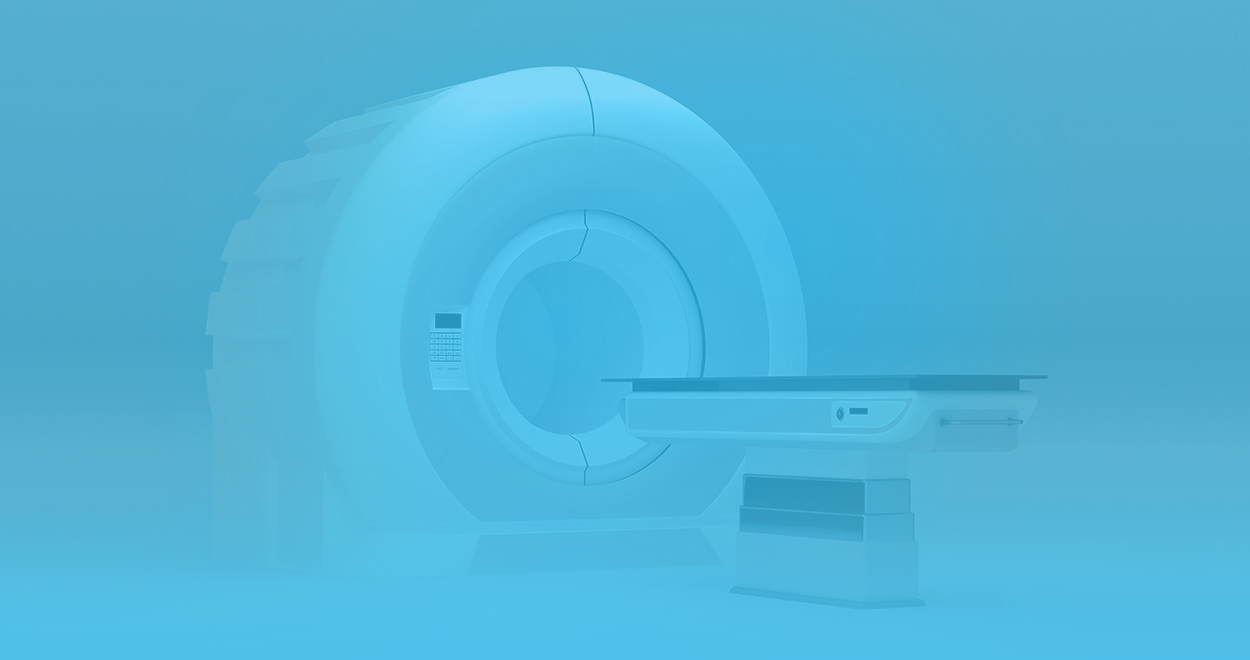
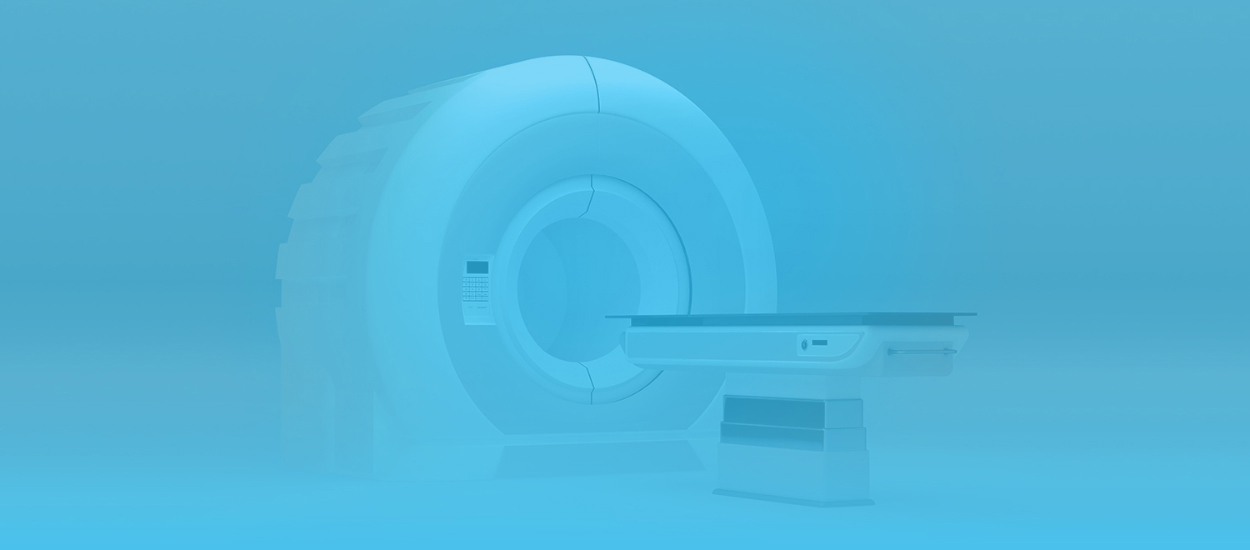
Changed layout on NGI

diff --git a/ngi.html b/ngi.html
@@ -38,11 +38,15 @@
   –––––––––––––––––––––––––––––––––––––––––––––––––– -->
 <div class="ppp">
   <div class="ppp-container ngipage">
-    <h2>NGI</h2>
-    <h4>Conception d'un logotype</h4>
-
-    <p>Conception du logotype du&nbsp;groupe&nbsp;<a href="http://www.ngigroup.fr/" target="_blank">NGI</a>, issu&nbsp;de la&nbsp;fusion de Numerix et&nbsp;Global&nbsp;Imaging.</br>
-      Travail au sein de l'agence&nbsp;Memory, chargée&nbsp;de&nbsp;créer l'<a href="http://agencememory.com/portfolio/ngi-02/" target="_blank">identité&nbsp;graphique</a>.</p>
+    <div class="scanner">
+      <h2>NGI</h2>
+      <h4>Conception d'un logotype</h4>
+      <p>Conception du logotype du&nbsp;groupe&nbsp;<a href="http://www.ngigroup.fr/" target="_blank">NGI</a>,
+         issu&nbsp;de la&nbsp;fusion de Numerix et&nbsp;Global&nbsp;Imaging.</br>
+        Travail au sein de l'agence&nbsp;Memory, chargée&nbsp;de&nbsp;créer
+        l'<a href="http://agencememory.com/portfolio/ngi-02/" target="_blank">identité&nbsp;graphique</a>.</p>
+    </div>
+    
     <div class="img-container" style="background-color:#4ac1ec;">
       <img src="images/ngi/ngi_logo_square.png" />
     </div>

diff --git a/css/style.css b/css/style.css
@@ -193,14 +193,22 @@ margin: 0 -40% 0 -60%;
 }
 
 .ngipage {
+  padding: 0;
+  color: rgb(240,240,240);
   background-color: #4ac1ec;
+}
+.ngipage .scanner {
+  min-height: 330px;
   background-image: url("../images/ngi/scanner.jpg");
-  background-size: contain;
+  background-size:cover;
   background-repeat: no-repeat;
   background-position: center top;
-  color: rgb(240,240,240);
 }
-
+.ngipage p {
+  margin: 20px auto 20px auto;
+  padding: 35px 70px;
+  max-width: 303px;
+}
 
 
 @media (max-width: 720px){
@@ -212,6 +220,10 @@ margin: 0 -40% 0 -60%;
   }
   .ppp p {
     padding: 0px 20px;
+  }
+
+  .ngipage p {
+    padding: 35px 20px;
   }
   /*.desktop {
     display: none;
